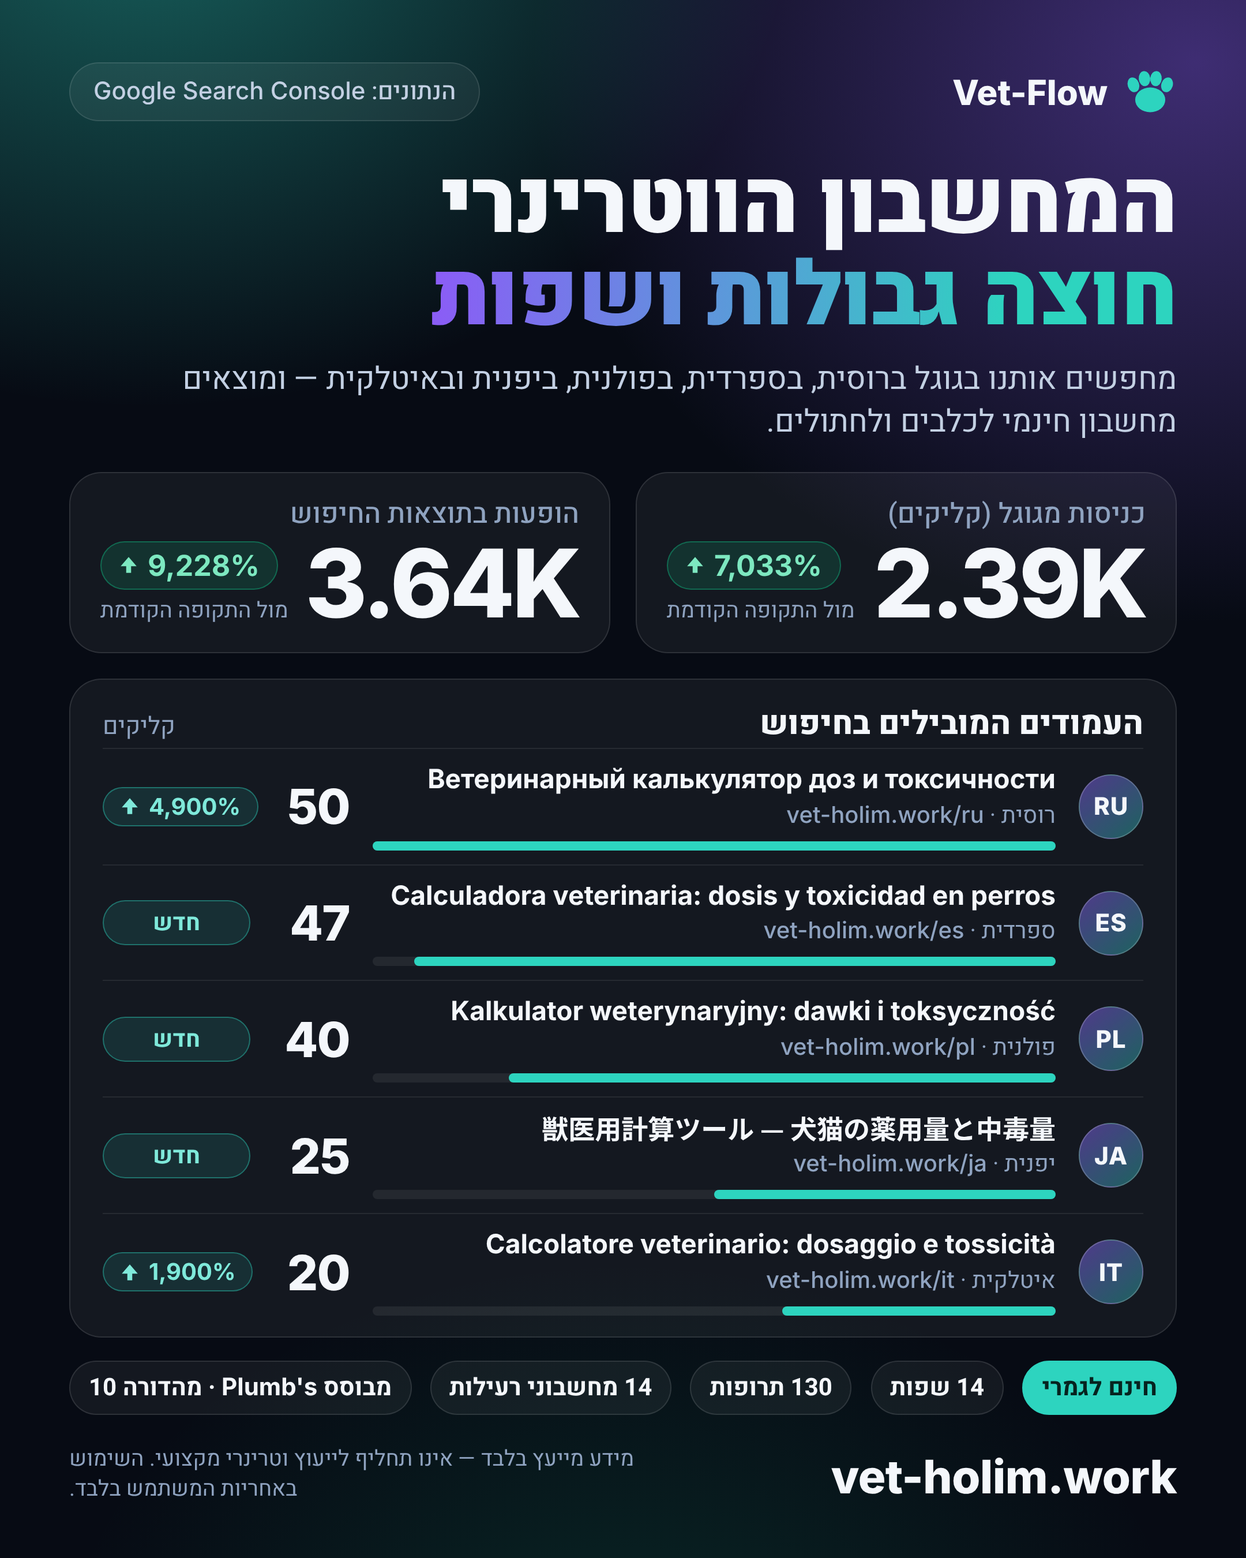
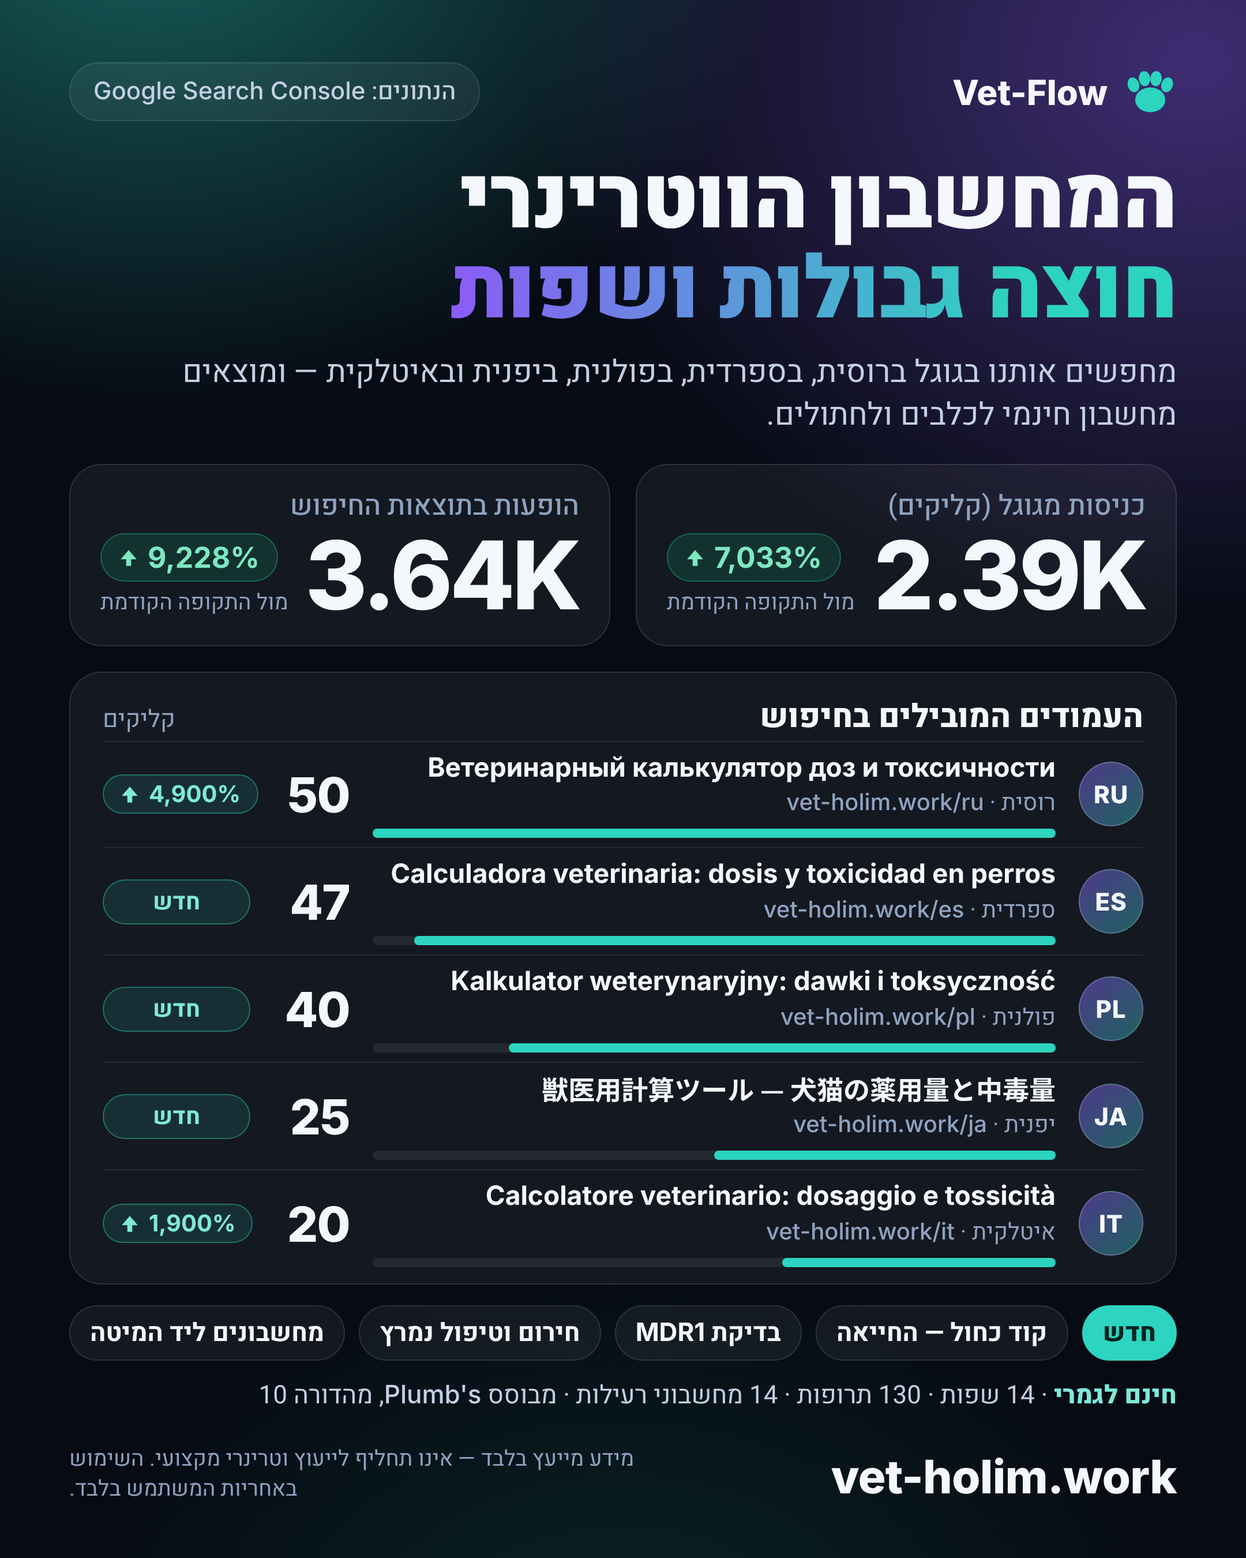
marketing: centre the Facebook post on the new critical-care tools
The post's purpose is to announce the four tools added in PR #7 (Code
Blue, MDR1 check, emergency and critical-care tab, bedside calculators),
framed as the response to the international search traffic.

- Post: the "what's new" block now describes those four tools; the
  older features are one summary line.
- Images: a "חדש" chip row names the four tools, above a facts line
  (free, 14 languages, 130 drugs, 14 toxicity calculators, Plumb's 10).
- Branding: presented as a Vet-Flow product. The former name is removed
  from the post and both images; in the framed-screenshot variant the
  page thumbnails that showed it are painted out.
- The markdown flags that the post must wait for PR #7 to be merged and
  deployed, and why the CPR guidelines are described rather than named.

Claude-Session: https://claude.ai/code/session_01SM5DayhiCTR1zWGzHuq7AG

diff --git a/marketing/global-reach-card.css b/marketing/global-reach-card.css
@@ -52,7 +52,7 @@
   }
 
   /* Headline */
-  h1 { margin-top: 32px; font-size: 77px; font-weight: 900; line-height: 1.04; letter-spacing: -0.01em; }
+  h1 { margin-top: 30px; font-size: 75px; font-weight: 900; line-height: 1.04; letter-spacing: -0.01em; }
   h1 .accent {
     background: linear-gradient(90deg, var(--violet) 0%, var(--teal) 78%);
     -webkit-background-clip: text; background-clip: text; color: transparent;
@@ -88,7 +88,7 @@
   .pages-unit { font-size: 21px; color: var(--text-lo); }
   .page {
     display: grid; grid-template-columns: 56px minmax(0, 1fr) 214px; column-gap: 20px; align-items: center;
-    padding: 12px 0; border-top: 1px solid rgba(255, 255, 255, 0.08);
+    padding: 8px 0; border-top: 1px solid rgba(255, 255, 255, 0.08);
   }
   .page:first-of-type { border-top: 0; margin-top: 4px; }
   .lang {
@@ -117,14 +117,16 @@
   }
   .tag.delta { font-family: 'Inter', sans-serif; font-size: 20px; justify-content: center; }
 
-  /* Fact chips + footer */
-  .chips { margin-top: 20px; display: flex; flex-wrap: nowrap; justify-content: space-between; gap: 10px; }
+  /* "New in the calculator" chips, standing facts line, footer */
+  .chips { margin-top: 18px; display: flex; flex-wrap: nowrap; justify-content: space-between; gap: 10px; }
   .chip {
-    font-size: 21px; font-weight: 700; color: var(--text-hi); white-space: nowrap;
-    padding: 7px 16px; border-radius: 999px;
+    font-size: 22px; font-weight: 700; color: var(--text-hi); white-space: nowrap;
+    padding: 7px 17px; border-radius: 999px;
     background: var(--surface); border: 1px solid var(--hairline);
   }
-  .chip.free { color: #06231F; background: var(--teal); border-color: var(--teal); }
+  .chip.accent { color: #06231F; background: var(--teal); border-color: var(--teal); font-weight: 800; }
+  .facts { margin-top: 14px; font-size: 22px; color: var(--text-mid); }
+  .facts b { color: var(--teal-soft); font-weight: 800; }
   .footer { margin-top: auto; display: flex; align-items: flex-end; justify-content: space-between; gap: 24px; }
   .url { font-size: 40px; font-weight: 800; letter-spacing: -0.01em; direction: ltr; }
   .fineprint { font-size: 19px; line-height: 1.4; color: var(--text-lo); text-align: left; max-width: 560px; }

diff --git a/marketing/global-reach-screenshot.html b/marketing/global-reach-screenshot.html
@@ -46,13 +46,15 @@
   </div>
   <p class="shot-caption">צילום מסך מתוך <span class="latin">Google Search Console</span></p>
 
+  <!-- The four tools added in PR #7 (Code Blue, MDR1 check, emergency tab, bedside calculators). -->
   <div class="chips">
-    <span class="chip free">חינם לגמרי</span>
-    <span class="chip">14 שפות</span>
-    <span class="chip">130 תרופות</span>
-    <span class="chip">14 מחשבוני רעילות</span>
-    <span class="chip">מבוסס <span class="latin">Plumb's</span> · מהדורה 10</span>
+    <span class="chip accent">חדש</span>
+    <span class="chip">קוד כחול — החייאה</span>
+    <span class="chip">בדיקת <span class="latin">MDR1</span></span>
+    <span class="chip">חירום וטיפול נמרץ</span>
+    <span class="chip">מחשבונים ליד המיטה</span>
   </div>
+  <p class="facts"><b>חינם לגמרי</b> · 14 שפות · 130 תרופות · 14 מחשבוני רעילות · מבוסס <span class="latin">Plumb's</span>, מהדורה 10</p>
 
   <div class="footer">
     <div class="url latin">vet-holim.work</div>

diff --git a/marketing/global-reach-card.html b/marketing/global-reach-card.html
@@ -135,13 +135,15 @@
     </div>
   </div>
 
+  <!-- The four tools added in PR #7 (Code Blue, MDR1 check, emergency tab, bedside calculators). -->
   <div class="chips">
-    <span class="chip free">חינם לגמרי</span>
-    <span class="chip">14 שפות</span>
-    <span class="chip">130 תרופות</span>
-    <span class="chip">14 מחשבוני רעילות</span>
-    <span class="chip">מבוסס <span class="latin">Plumb's</span> · מהדורה 10</span>
+    <span class="chip accent">חדש</span>
+    <span class="chip">קוד כחול — החייאה</span>
+    <span class="chip">בדיקת <span class="latin">MDR1</span></span>
+    <span class="chip">חירום וטיפול נמרץ</span>
+    <span class="chip">מחשבונים ליד המיטה</span>
   </div>
+  <p class="facts"><b>חינם לגמרי</b> · 14 שפות · 130 תרופות · 14 מחשבוני רעילות · מבוסס <span class="latin">Plumb's</span>, מהדורה 10</p>
 
   <div class="footer">
     <div class="url latin">vet-holim.work</div>

diff --git a/marketing/facebook-post-global-reach.md b/marketing/facebook-post-global-reach.md
@@ -1,11 +1,20 @@
-# Facebook post — "the calculator crosses borders" (Hebrew)
+# Facebook post — global reach + the new critical-care tools (Hebrew)
 
-A Hebrew Facebook post celebrating the calculator's international search traffic,
-announcing the recently shipped features, and stating who it is for, what it is
-based on and its limits. The product is presented as a **Vet-Flow** product; the
-former name is deliberately not used anywhere in the post or the images. The only
-place the old wording survives is the site address `vet-holim.work`, which is the
-real URL readers must click.
+A Hebrew Facebook post with one job: **announce the four tools added in
+[PR #7](https://github.com/Freespirits/Vet-calculator/pull/7)** — Code Blue, the
+MDR1 check, the emergency and critical-care tab, and the bedside calculators —
+framed as the response to the calculator's international search traffic. It also
+states who the calculator is for, what it is based on and its limits.
+
+The product is presented as a **Vet-Flow** product; the former name is
+deliberately not used anywhere in the post or the images. The only place the old
+wording survives is the site address `vet-holim.work`, which is the real URL
+readers must click.
+
+> **Publish only after PR #7 is merged and deployed.** At the time of writing the
+> four new tools are on the PR branch and are not on the live site. Until then,
+> delete the "הוספנו למחשבון ארבעה כלים חדשים" block (the four emoji lines under
+> it) and the "חדש" chip row would be wrong too — re-render the images without it.
 
 ## Image to attach
 
@@ -13,6 +22,9 @@ real URL readers must click.
 |---|---|---|
 | `global-reach-card.png` | The Search Console figures redrawn in the brand style (1080×1350, rendered @2x) | **Recommended** — sharp, readable on a phone |
 | `global-reach-screenshot.png` | The real Search Console screenshot, cut into its two panels and framed | When showing the authentic screenshot matters more |
+
+Both carry a "חדש" (new) chip row naming the four new tools, and a facts line
+(free · 14 languages · 130 drugs · 14 toxicity calculators · Plumb's 10th ed.).
 
 Sources: `global-reach-card.html`, `global-reach-screenshot.html` (shared styles
 in `global-reach-card.css`; `search-console-*.png` are the cuts of the original
@@ -28,7 +40,7 @@ product name; nothing else in the screenshot is retouched.
 ## The post (copy from here)
 
 ```text
-🌍 המחשבון הווטרינרי של Vet-Flow חוצה גבולות — ותודה לכם!
+🌍 המחשבון הווטרינרי של Vet-Flow חוצה גבולות — ובזכותכם הוא ממשיך לגדול!
 
 בנינו אותו כדי לעזור לצוותים וטרינריים כאן בארץ. היום מחפשים ומוצאים אותו בגוגל בכל העולם:
 
@@ -36,51 +48,57 @@ product name; nothing else in the screenshot is retouched.
 👀 כ־3,640 הופעות בתוצאות החיפוש — עלייה של 9,228%
 🗣 והעמודים המובילים? דווקא ברוסית, בספרדית, בפולנית, ביפנית ובאיטלקית
 
-ההצלחה הזו מחייבת, אז המשכנו לבנות. מה חדש במחשבון:
+ההצלחה הזו מחייבת. אז הוספנו למחשבון ארבעה כלים חדשים, לרגעים הכי דחופים במרפאה:
 
-💊 130 תרופות עם מינוני ייחוס לכלבים ולחתולים
-☠ 14 מחשבוני רעילות — נוספו קפאין, אתילן גליקול (נוזל קירור), קנאביס (THC) ושלושה רעלי מכרסמים
-🚑 "טיפול מיידי" בכל תוצאת רעילות: השראת הקאה, פחם פעיל ואנטידוטים — עם המקור המצוטט ליד כל מינון
-🌿 ספריית 35 צמחים רעילים, עם תמונות וחיפוש
-🌐 14 שפות, ולכל שפה עמוד משלה
-📲 עובד גם בלי אינטרנט — אפשר להתקין למסך הבית
+🚨 קוד כחול — עזר החייאה לצוות וטרינרי: שעון מחזורים של 2 דקות, מטרונום לעיסויים, מינונים לפי משקל ורישום אירועים עם חותמת זמן, לפי הנחיות ההחייאה הבינלאומיות לכלבים ולחתולים (2024)
+🧬 בדיקת MDR1 בתוך מחשבון המינון: התרעה לפי גזע ולפי תוצאת הבדיקה הגנטית, בתרופות רגישות כמו איברמקטין ולופרמיד
+🆘 לשונית "חירום וטיפול נמרץ": מכת חום, הכשת נחש (כולל צפע ארץ־ישראלי), זחל תהלוכן האורן והרעלת זרחנים אורגניים וקרבמטים — וליד כל קביעה, המחקר שמאחוריה
+🩺 מחשבונים ליד המיטה: מדד הלם לכלבים, סולם כאב לחתולים (Feline Grimace Scale), נפח עירוי דם וקצב עירוי מתמשך (CRI)
+
+וכל זה לצד מה שכבר מחכה לכם: 130 תרופות עם מינוני ייחוס, 14 מחשבוני רעילות וספריית 35 צמחים רעילים — ב־14 שפות, וגם בלי אינטרנט.
 
 💚 והכול בחינם — בלי הרשמה ובלי חשבון.
 המחשבון פתוח לרופאות ולרופאים וטרינרים, לאחיות, לטכנאים ולאסיסטנטים, לסטודנטים — וגם לקהל הרחב.
 
 📚 על מה זה מבוסס?
-מינוני הייחוס לקוחים מתוך Plumb's Veterinary Drug Handbook, מהדורה 10 — ספר המינונים המקובל על וטרינרים בכל העולם לטיפול בכלבים ובחתולים. כל המחשבונים נשענים על מחקר וספרות וטרינרית קלינית, והמקורות מצוטטים לצד התוצאות.
+מינוני הייחוס לקוחים מתוך Plumb's Veterinary Drug Handbook, מהדורה 10 — ספר המינונים המקובל על וטרינרים בכל העולם לטיפול בכלבים ובחתולים. כל הכלים נשענים על מחקר וספרות וטרינרית קלינית שפורסמו, והמקור מצוטט ליד כל נתון.
 
 ⚠ חשוב לדעת: המחשבון הוא כלי עזר מייעץ בלבד. הוא אינו הנחיה לביצוע טיפול מכל סוג, אינו אבחנה ואינו תחליף לבדיקה ולשיקול דעת של רופא/ה וטרינר/ית. יש לאמת כל חישוב מול המקור לפני מתן טיפול, והשימוש בו באחריות המשתמש בלבד.
-חושדים שחיית המחמד נחשפה לרעל? לא מחכים לחישוב — פונים מיד לווטרינר/ית או למרפאת חירום.
+חושדים שחיית המחמד נחשפה לרעל, או שהיא במצוקה? לא מחכים לחישוב — פונים מיד לווטרינר/ית או למרפאת חירום.
 
 👉 נסו בעצמכם: https://vet-holim.work
 מכירים וטרינר/ית, אחות או סטודנט/ית שזה יכול לעזור להם? תייגו ושתפו 🙏
 
-#וטרינריה #רפואה_וטרינרית #וטרינר #כלבים #חתולים #הרעלות #מחשבון_מינון #VetFlow #veterinary #vetmed #vettech
+#וטרינריה #רפואה_וטרינרית #וטרינר #כלבים #חתולים #החייאה #רפואת_חירום #הרעלות #VetFlow #veterinary #vetmed #vettech
 ```
 
 ## Image alt text (Hebrew)
 
 ```text
-נתוני Google Search Console של המחשבון הווטרינרי של Vet-Flow: כ־2,390 קליקים (עלייה של 7,033%) וכ־3,640 הופעות (עלייה של 9,228%). העמודים המובילים: רוסית 50 קליקים, ספרדית 47, פולנית 40, יפנית 25, איטלקית 20. חינם, 14 שפות, 130 תרופות, 14 מחשבוני רעילות, מבוסס Plumb's מהדורה 10.
+נתוני Google Search Console של המחשבון הווטרינרי של Vet-Flow: כ־2,390 קליקים (עלייה של 7,033%) וכ־3,640 הופעות (עלייה של 9,228%). העמודים המובילים: רוסית 50 קליקים, ספרדית 47, פולנית 40, יפנית 25, איטלקית 20. חדש במחשבון: קוד כחול להחייאה, בדיקת MDR1, חירום וטיפול נמרץ ומחשבונים ליד המיטה. חינם, 14 שפות, 130 תרופות, 14 מחשבוני רעילות, מבוסס Plumb's מהדורה 10.
 ```
 
 ## Where each claim comes from
+
+Paths marked *(PR #7)* exist on branch `claude/vibrant-gates-uvq9fh`, not yet on
+the default branch.
 
 | Claim in the post | Source |
 |---|---|
 | ~2,390 clicks (+7,033%), ~3,640 impressions (+9,228%) | Owner's Search Console screenshot (shown as 2.39K / 3.64K). The screenshot does not show the date range, so the post says "the previous period" without naming one |
 | Top pages: Russian 50, Spanish 47, Polish 40, Japanese 25, Italian 20 clicks | Same screenshot, "התוכן שלך → מובילים". These are page *languages*; the screenshot says nothing about visitors' countries, so the post names languages only |
+| Code Blue: 2-minute cycle clock, compression metronome, weight-based doses, time-stamped event log, for veterinary teams, per the 2024 international CPR guidelines | *(PR #7)* `src/cpr/`, `src/features/cpr/strings.ts`, README "Code Blue (CPR aid)" |
+| MDR1 check by breed and genotype inside the dosage calculator; ivermectin and loperamide among the flagged drugs | *(PR #7)* `src/data/mdr1.ts`, README "MDR1 (P-glycoprotein) check" |
+| Emergency tab: heat-related illness, snake envenomation incl. *Vipera palaestinae*, pine processionary caterpillar, organophosphate/carbamate poisoning; a study named beside every statement | *(PR #7)* `src/emergencies/fieldFacts.ts`, `heatIllness.ts`; `fieldFacts.test.ts` fails if a statement lacks a source |
+| Bedside calculators: canine shock index, Feline Grimace Scale, transfusion volume, infusion rate (CRI) | *(PR #7)* `src/features/er/bedsideMeta.ts`, `src/critical/` |
 | 130 drugs with reference doses | `src/data/drugDatabase.ts` (130 entries) |
-| 14 toxicity calculators; caffeine, ethylene glycol, THC and three rodenticides added | `src/toxins/` (14 modules); commit `379b82e` |
-| "Treat now" panel: emesis, activated charcoal, antidotes, each with its cited source | `src/data/toxinTreatments.ts`; commit `eb3df39` |
-| 35 toxic plants with photos and search | `src/data/toxicPlants.ts`, `public/plants/` |
-| 14 languages, one page each | `src/i18n/`; commit `cd185a7` |
-| Works offline, installable | PWA precache, commit `fc6a502`; `faq.a4` in `src/i18n/he.ts` |
+| 14 toxicity calculators | `src/toxins/` (14 modules) |
+| 35 toxic plants | `src/data/toxicPlants.ts`, `public/plants/` |
+| 14 languages | `src/i18n/`. New clinical wording is Hebrew and English; the other 12 languages show it in English with translated tabs and buttons |
+| Works offline | PWA precache; `faq.a4` in `src/i18n/he.ts` |
 | Free, no sign-up, no account | `faq.a1` in `src/i18n/he.ts` |
 | Reference doses from Plumb's Veterinary Drug Handbook, 10th ed. | Header of `src/data/drugDatabase.ts` |
-| Sources cited next to the results | Toxin result views and the `dose.plumbsRef` reference line |
+| A source cited beside every figure | Toxin result views, the `dose.plumbsRef` line, and *(PR #7)* `er.subtitle` ("כל נתון עם מקור") |
 
 ## Wording decisions worth knowing
 
@@ -88,11 +106,18 @@ product name; nothing else in the screenshot is retouched.
   worldwide", not as "authorized".** No international body authorizes a drug
   handbook, and the publisher has not reviewed or endorsed this product, so
   "authorized" would be a claim we cannot back.
-- **"Also for the general public" sits next to an explicit safety line.** The app
-  itself still says it is intended for licensed veterinary use (`dose.vetOnly`,
-  `about.who` in `src/i18n/he.ts`). The post therefore invites the public to use
-  it while telling owners who suspect poisoning to go to a vet immediately
-  instead of acting on a calculation.
+- **The CPR guidelines are described, not named.** The post says "the
+  international CPR guidelines for dogs and cats (2024)" and leaves the RECOVER
+  name out. PR #7 lists permission to use RECOVER material as an open owner
+  decision, and a promotional post is the place where a brand name is most
+  easily read as an endorsement. The in-app citation still names the paper in
+  full. Once the owner has settled that question, the name can be added.
+- **"Also for the general public" sits next to an explicit safety line, and Code
+  Blue is labelled as a tool for veterinary teams.** The app itself still says it
+  is intended for licensed veterinary use (`dose.vetOnly`, `about.who` in
+  `src/i18n/he.ts`), and Code Blue opens behind a professional-use
+  acknowledgment. The post therefore invites the public in while telling owners
+  to go to a vet immediately instead of acting on a calculation.
 - **Percentages are written out in words** ("עלייה של 7,033%") because a leading
   `+` sign next to a number tends to jump to the wrong side in right-to-left
   Facebook text.
